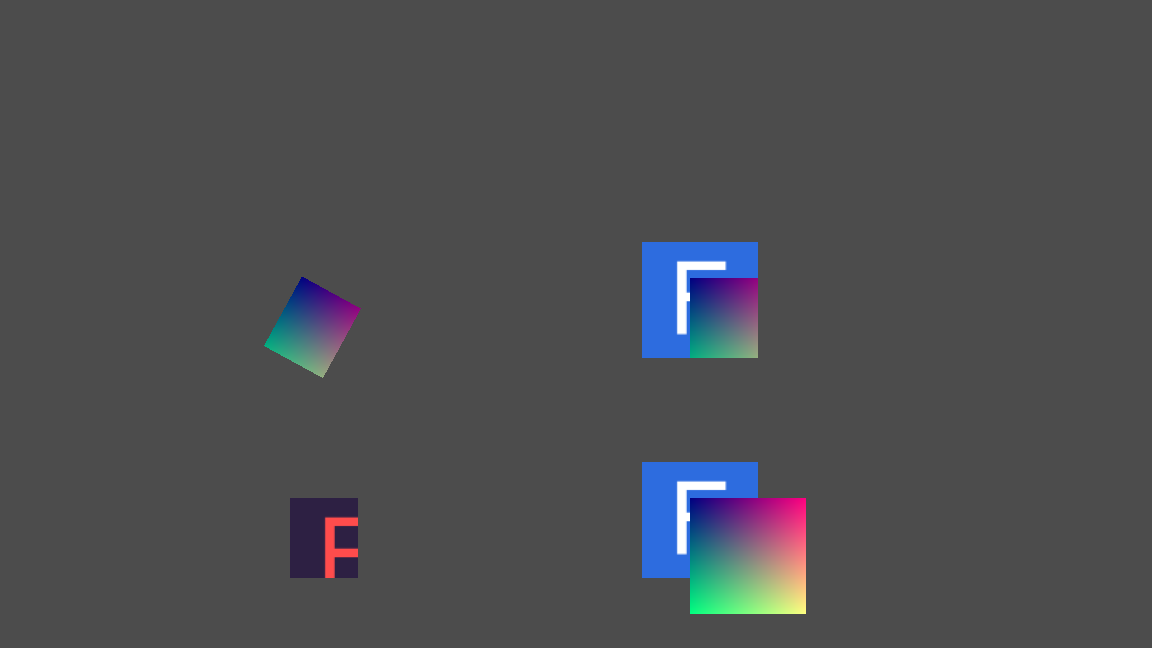
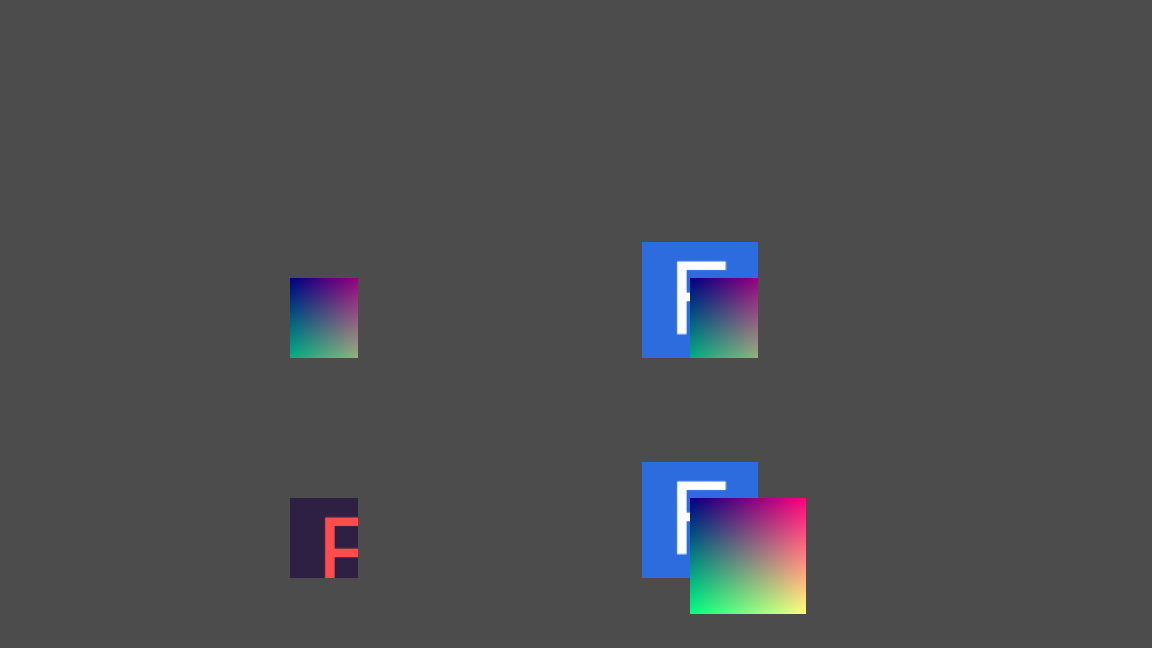
fix(shaders): frame shaded 2D batches and name the custom array contract once
- The framing box reads the geometry box of a plain mesh over an instanced geometry, so a
  shaded canvas batch and an emulated point surface join the frame.
- customArrayAttribute and CUSTOM_ARRAY_LANES name the custom arrays for the surface writer,
  the spatial attributes and the canvas template.
- attributesObject throws for a draw that emulates points over arrays of another primitive.
- The custom array error names the array type it found.
- The clip golden moves one variable: no clipper is rotated.

Changed region(s): [[0.2188, 0.4321, 0.3125, 0.5864]]

diff --git a/packages/textscene-core/src/shaders/canvas/canvasAttributes.ts b/packages/textscene-core/src/shaders/canvas/canvasAttributes.ts
@@ -6,7 +6,12 @@ import type { Vector2 } from '../../godot/math/vector.js';
 import { type Binding, writeBindings } from '../uniforms/bindingTable.js';
 import type { CanvasPrimitive } from './canvasPrimitive.js';
 import { type CanvasItemDraw, modulated, NO_INSTANCE_UNIFORMS, WHITE, worldOf } from './canvasInstance.js';
-import { emulatedPointGeometry, VERTEX_ID_ATTRIBUTE } from '../spatial/meshAttributes.js';
+import {
+  CUSTOM_ARRAY_LANES,
+  customArrayAttribute,
+  emulatedPointGeometry,
+  VERTEX_ID_ATTRIBUTE,
+} from '../spatial/meshAttributes.js';
 import type { CanvasDraw, CanvasVariant } from './transpileCanvas.js';
 
 /** The vertex arrays of `Item::CommandPolygon`, or of one surface of a mesh. */
@@ -53,9 +58,9 @@ function checkedArrays(arrays: CanvasVertexArrays): CanvasVertexArrays {
       `expected 0, 1 or ${points.length} colours and 0 or ${points.length} UVs, got ${colors.length} and ${uvs.length}`
     );
   arrays.customs?.forEach((lanes, custom) => {
-    if (lanes && lanes.length !== points.length * CUSTOM_LANES)
+    if (lanes && lanes.length !== points.length * CUSTOM_ARRAY_LANES)
       throw new Error(
-        `expected ${points.length * CUSTOM_LANES} lanes in CUSTOM${custom}, got ${lanes.length}`
+        `expected ${points.length * CUSTOM_ARRAY_LANES} lanes in CUSTOM${custom}, got ${lanes.length}`
       );
   });
   return arrays;
@@ -67,10 +72,7 @@ export function attributesVariant(primitive: CanvasPrimitive): CanvasVariant {
 }
 
 /** The custom arrays of a surface geometry that the template reads, CUSTOM0 first (`canvas.glsl:12-18`). */
-export const CANVAS_CUSTOM_ARRAYS = ['custom0', 'custom1'] as const;
-
-/** The lanes of one point of a custom array, as `ARRAY_CUSTOM_RGBA_FLOAT` holds them. */
-const CUSTOM_LANES = 4;
+export const CANVAS_CUSTOM_ARRAYS = [0, 1].map(customArrayAttribute);
 
 /** The default vertex buffers of a missing array (`mesh_storage.cpp:86-157`). */
 const DEFAULT_COLOR = [1, 1, 1, 1];
@@ -98,8 +100,8 @@ export function attributesGeometry(arrays: CanvasVertexArrays): THREE.BufferGeom
   geometry.setAttribute('uv_attrib', floats(uvValues, 2));
   CANVAS_CUSTOM_ARRAYS.forEach((name, custom) => {
     // A missing custom array reads zero (`mesh_storage.cpp:120-131`).
-    const values = arrays.customs?.[custom] ?? new Float32Array(count * CUSTOM_LANES);
-    geometry.setAttribute(`${name}_attrib`, new THREE.BufferAttribute(values, CUSTOM_LANES));
+    const values = arrays.customs?.[custom] ?? new Float32Array(count * CUSTOM_ARRAY_LANES);
+    geometry.setAttribute(`${name}_attrib`, new THREE.BufferAttribute(values, CUSTOM_ARRAY_LANES));
   });
   if (arrays.primitive === 'points')
     geometry.setAttribute(
@@ -223,6 +225,8 @@ export function attributesObject(
   constants: AttributesConstants
 ): PrimitiveObject {
   writeEachDraw(draw);
+  if (draw.emulatesPoints && primitive !== 'points')
+    throw new Error(`expected points for a draw that emulates points, got ${primitive}`);
   const object = draw.emulatesPoints
     ? primitiveObject('triangles', emulatedPointGeometry(geometry), draw.material)
     : primitiveObject(primitive, geometry, draw.material);

diff --git a/packages/textscene-core/src/r3f/canvasShader/canvasCommands.ts b/packages/textscene-core/src/r3f/canvasShader/canvasCommands.ts
@@ -6,6 +6,7 @@ import type { Vector2 } from '../../godot/math/vector';
 import { geometryPrimitive } from '../../resources/meshes/godotSurface';
 import type { AtlasCellRects } from '../../resources/useTexture2D';
 import { CANVAS_CUSTOM_ARRAYS, type CanvasVertexArrays } from '../../shaders/canvas/canvasAttributes';
+import { CUSTOM_ARRAY_LANES } from '../../shaders/spatial/meshAttributes';
 import type { CanvasSurface } from '../canvasMesh/canvasSurface';
 
 /** `canvas_item_add_texture_rect_region` with a white modulate (`renderer_canvas_cull.cpp:1624`). */
@@ -130,15 +131,12 @@ function vertexArraysOf(
 function customLanes(geometry: THREE.BufferGeometry, name: string): Float32Array | undefined {
   const attribute = geometry.getAttribute(name);
   if (!attribute) return undefined;
-  if (
-    !(attribute instanceof THREE.BufferAttribute) ||
-    attribute.itemSize !== 4 ||
-    !(attribute.array instanceof Float32Array)
-  )
-    throw new Error(
-      `expected ${name} as a plain attribute of 4 float lanes, got item size ${attribute.itemSize}`
-    );
-  return attribute.array;
+  const lanes = attribute instanceof THREE.BufferAttribute ? attribute.array : null;
+  if (lanes instanceof Float32Array && attribute.itemSize === CUSTOM_ARRAY_LANES) return lanes;
+  const kind = lanes ? lanes.constructor.name : attribute.constructor.name;
+  throw new Error(
+    `expected ${name} as a plain attribute of ${CUSTOM_ARRAY_LANES} float lanes, got ${kind} of item size ${attribute.itemSize}`
+  );
 }
 
 /** Whether two command lists draw the same batches: the same kinds in order, and the same mesh arrays. */

diff --git a/packages/textscene-core/src/shaders/spatial/meshAttributes.ts b/packages/textscene-core/src/shaders/spatial/meshAttributes.ts
@@ -22,6 +22,12 @@ const LISTS = { triangles: { corners: 3, name: 'triangle' }, lines: { corners: 2
 export const VERTEX_STAGE_BONES_ATTRIBUTE = 'godotBoneIndices';
 export const VERTEX_STAGE_WEIGHTS_ATTRIBUTE = 'godotBoneWeights';
 
+/** The geometry attribute of the custom array `custom`, as a surface geometry holds it. */
+export const customArrayAttribute = (custom: number) => `custom${custom}`;
+
+/** The lanes of one vertex of a custom array attribute: every format decodes to four floats. */
+export const CUSTOM_ARRAY_LANES = 4;
+
 /** The attribute that holds each vertex's index in its own surface, which `gl_VertexIndex` reads. */
 export const VERTEX_ID_ATTRIBUTE = 'vertex_id_attrib';
 
@@ -56,8 +62,8 @@ export function withGodotAttributes(
     if (uv) geometry.setAttribute(godot, uv);
   }
   for (let custom = 0; custom < ARRAY_CUSTOM_COUNT; custom++) {
-    const values = geometry.getAttribute(`custom${custom}`);
-    if (values) geometry.setAttribute(`custom${custom}_attrib`, values);
+    const values = geometry.getAttribute(customArrayAttribute(custom));
+    if (values) geometry.setAttribute(`${customArrayAttribute(custom)}_attrib`, values);
   }
   const bones = vertexStageBones(geometry);
   if (bones) {

diff --git a/packages/textscene-core/src/resources/meshes/godotSurface.ts b/packages/textscene-core/src/resources/meshes/godotSurface.ts
@@ -9,6 +9,8 @@ import { bottomUpV } from '../../godot/math/uv.js';
 import { ARRAY_CUSTOM_COUNT } from '../../godot/rendering/meshArrayFormat.js';
 import { UV2_ATTRIBUTE } from './uv2.js';
 import {
+  CUSTOM_ARRAY_LANES,
+  customArrayAttribute,
   VERTEX_STAGE_BONES_ATTRIBUTE,
   VERTEX_STAGE_WEIGHTS_ATTRIBUTE,
   withSurfaceStarts,
@@ -223,7 +225,11 @@ export function godotSurfacesGeometry(surfaces: readonly GodotSurface[]): THREE.
     );
   }
   customs.forEach((values, custom) => {
-    if (values) geometry.setAttribute(`custom${custom}`, new THREE.BufferAttribute(values, 4));
+    if (values)
+      geometry.setAttribute(
+        customArrayAttribute(custom),
+        new THREE.BufferAttribute(values, CUSTOM_ARRAY_LANES)
+      );
   });
   if (isListed) geometry.userData[DRAWN_PRIMITIVE] = primitive;
   if (isSkinned) geometry.userData[SURFACE_BONE_COUNTS] = surfaces.map((s) => boneCountOf(s.bones));

diff --git a/packages/textscene-core/src/r3f/bounds.test.ts b/packages/textscene-core/src/r3f/bounds.test.ts
@@ -28,6 +28,14 @@ describe('computeWorldBoundingBox', () => {
     expect(center.z).toBeCloseTo(4, 5);
   });
 
+  it('bounds a plain mesh over an instanced geometry by the box of its geometry', () => {
+    const geometry = new THREE.InstancedBufferGeometry();
+    geometry.boundingBox = new THREE.Box3(new THREE.Vector3(0, -4, 0), new THREE.Vector3(8, 0, 0));
+    const mesh = new THREE.Mesh(geometry, new THREE.MeshBasicMaterial());
+
+    expect(computeWorldBoundingBox(mesh)).toEqual(geometry.boundingBox);
+  });
+
   it('uses the geometry (bind) box for a SkinnedMesh, ignoring a corrupt cached SkinnedMesh.boundingBox', () => {
     const skinned = new THREE.SkinnedMesh(unitBoxGeometry(), new THREE.MeshBasicMaterial());
     // Mimic the GLTF-clone bug: a posed/cached box in a far-away frame.

diff --git a/packages/textscene-core/src/shaders/canvas/canvasAttributes.test.ts b/packages/textscene-core/src/shaders/canvas/canvasAttributes.test.ts
@@ -207,6 +207,15 @@ describe('attributesObject', () => {
     );
   });
 
+  it('throws for a draw that emulates points over arrays of another primitive', () => {
+    const draw = transpileCanvasItem(SIZED_POINTS).draw('attributes_points');
+    const geometry = attributesGeometry(polygonCommand(SQUARE, [], []));
+
+    expect(() => attributesObject(draw, geometry, 'triangles', polygonConstants(ITEM))).toThrow(
+      'expected points for a draw that emulates points, got triangles'
+    );
+  });
+
   it('draws each point of a shader that names POINT_SIZE as an instance of two triangles, with its vertex index', () => {
     const draw = transpileCanvasItem(SIZED_POINTS).draw('attributes_points');
     const points = {

diff --git a/packages/textscene-core/src/r3f/bounds.ts b/packages/textscene-core/src/r3f/bounds.ts
@@ -124,7 +124,8 @@ function unionOwnBox(object: THREE.Object3D, target: THREE.Box3): void {
     bearing.isInstancedMesh ||
     bearing.isBatchedMesh ||
     (geometry as THREE.InstancedBufferGeometry).isInstancedBufferGeometry;
-  const src = isInstanced ? bearing : geometry;
+  // A plain mesh over an instanced geometry, as a canvas shader batch, has no box of its own.
+  const src = isInstanced && bearing.boundingBox !== undefined ? bearing : geometry;
   if (src.boundingBox === null) src.computeBoundingBox?.();
   if (!src.boundingBox) return;
   _box.copy(src.boundingBox).applyMatrix4(godotMatrixWorld(object, _matrix));

diff --git a/packages/textscene-core/src/r3f/canvasShader/canvasCommands.test.ts b/packages/textscene-core/src/r3f/canvasShader/canvasCommands.test.ts
@@ -157,7 +157,7 @@ describe('meshCommands', () => {
     geometry.setAttribute('custom0', new THREE.BufferAttribute(new Float32Array(9), 3));
 
     expect(() => meshCommands([geometry])).toThrow(
-      'expected custom0 as a plain attribute of 4 float lanes, got item size 3'
+      'expected custom0 as a plain attribute of 4 float lanes, got Float32Array of item size 3'
     );
   });
 });
